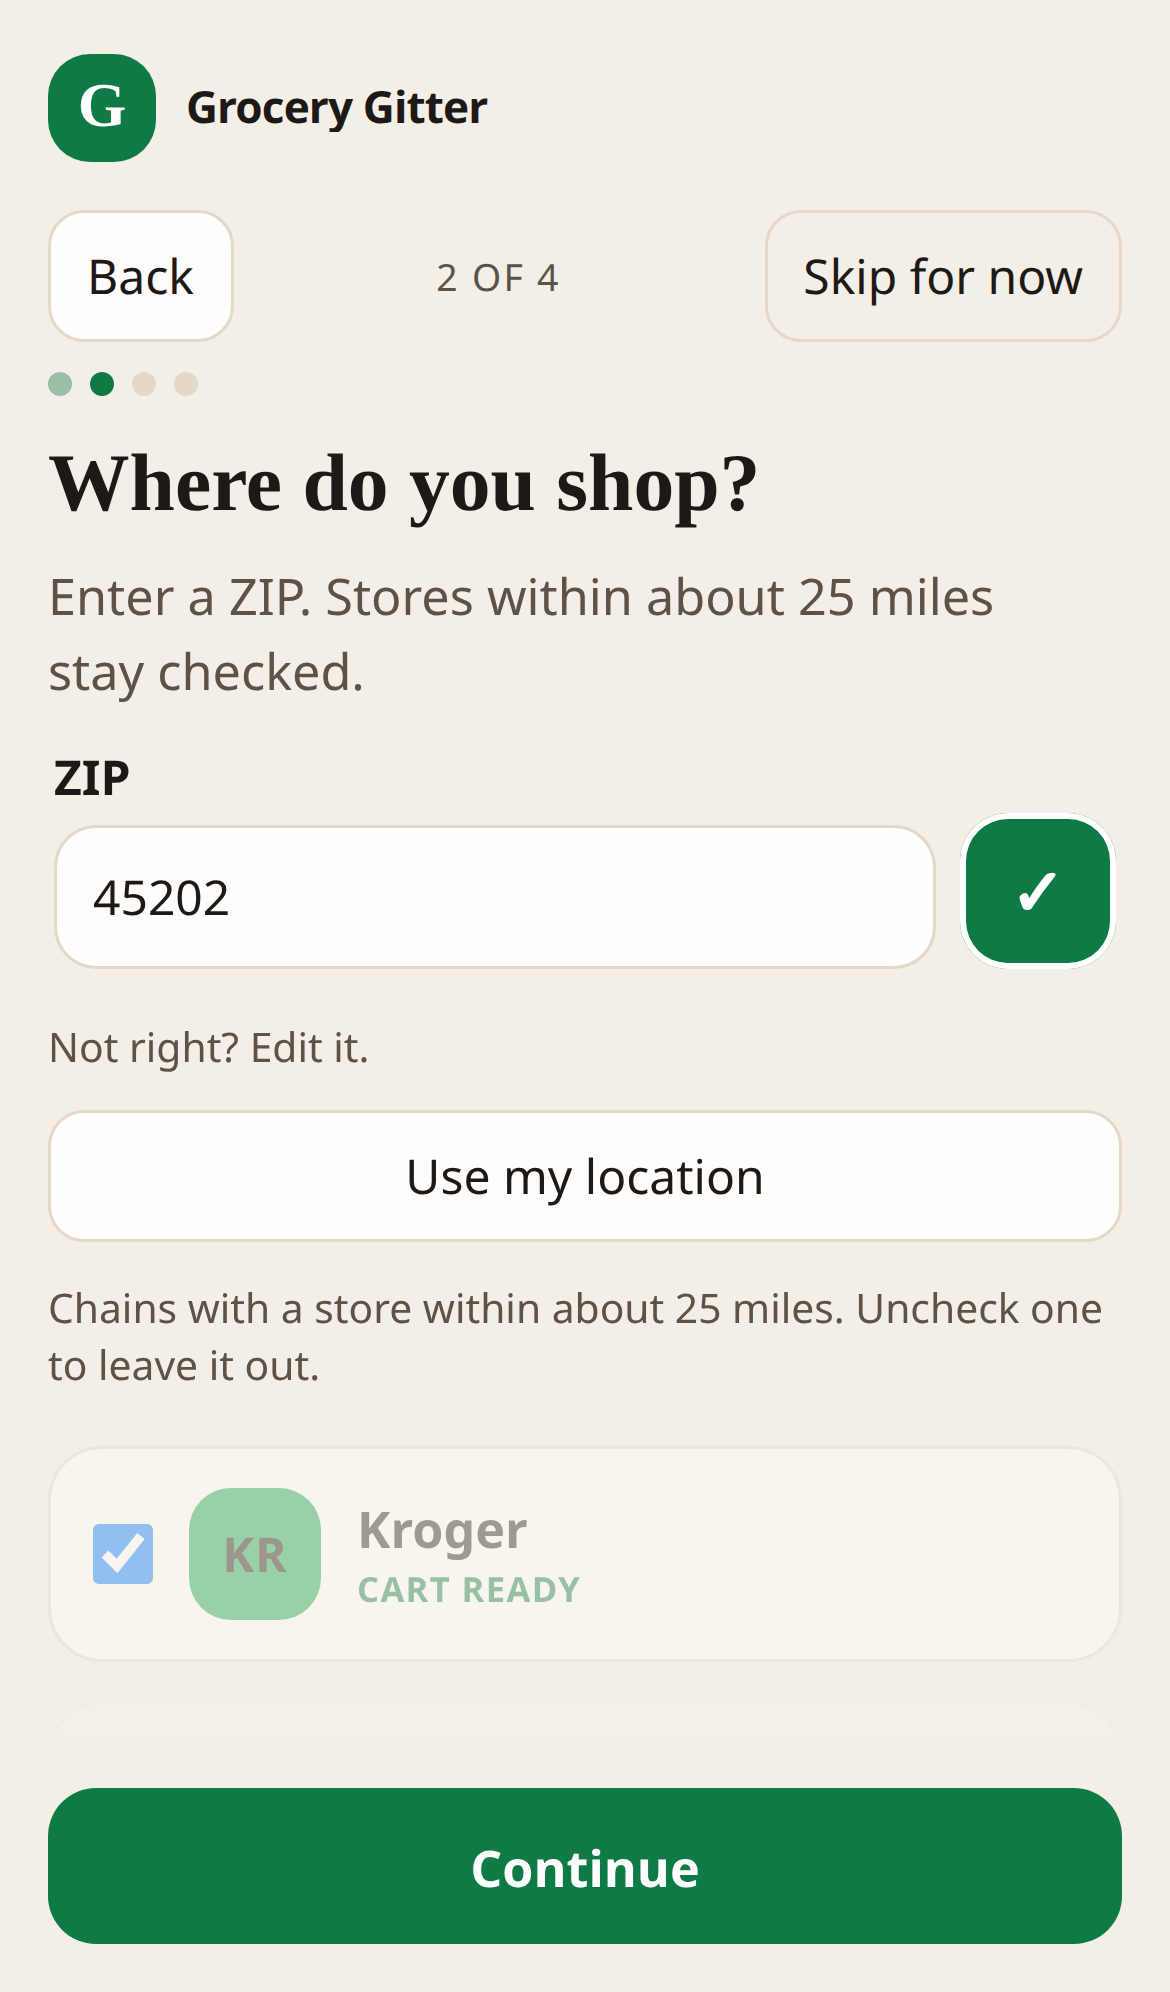
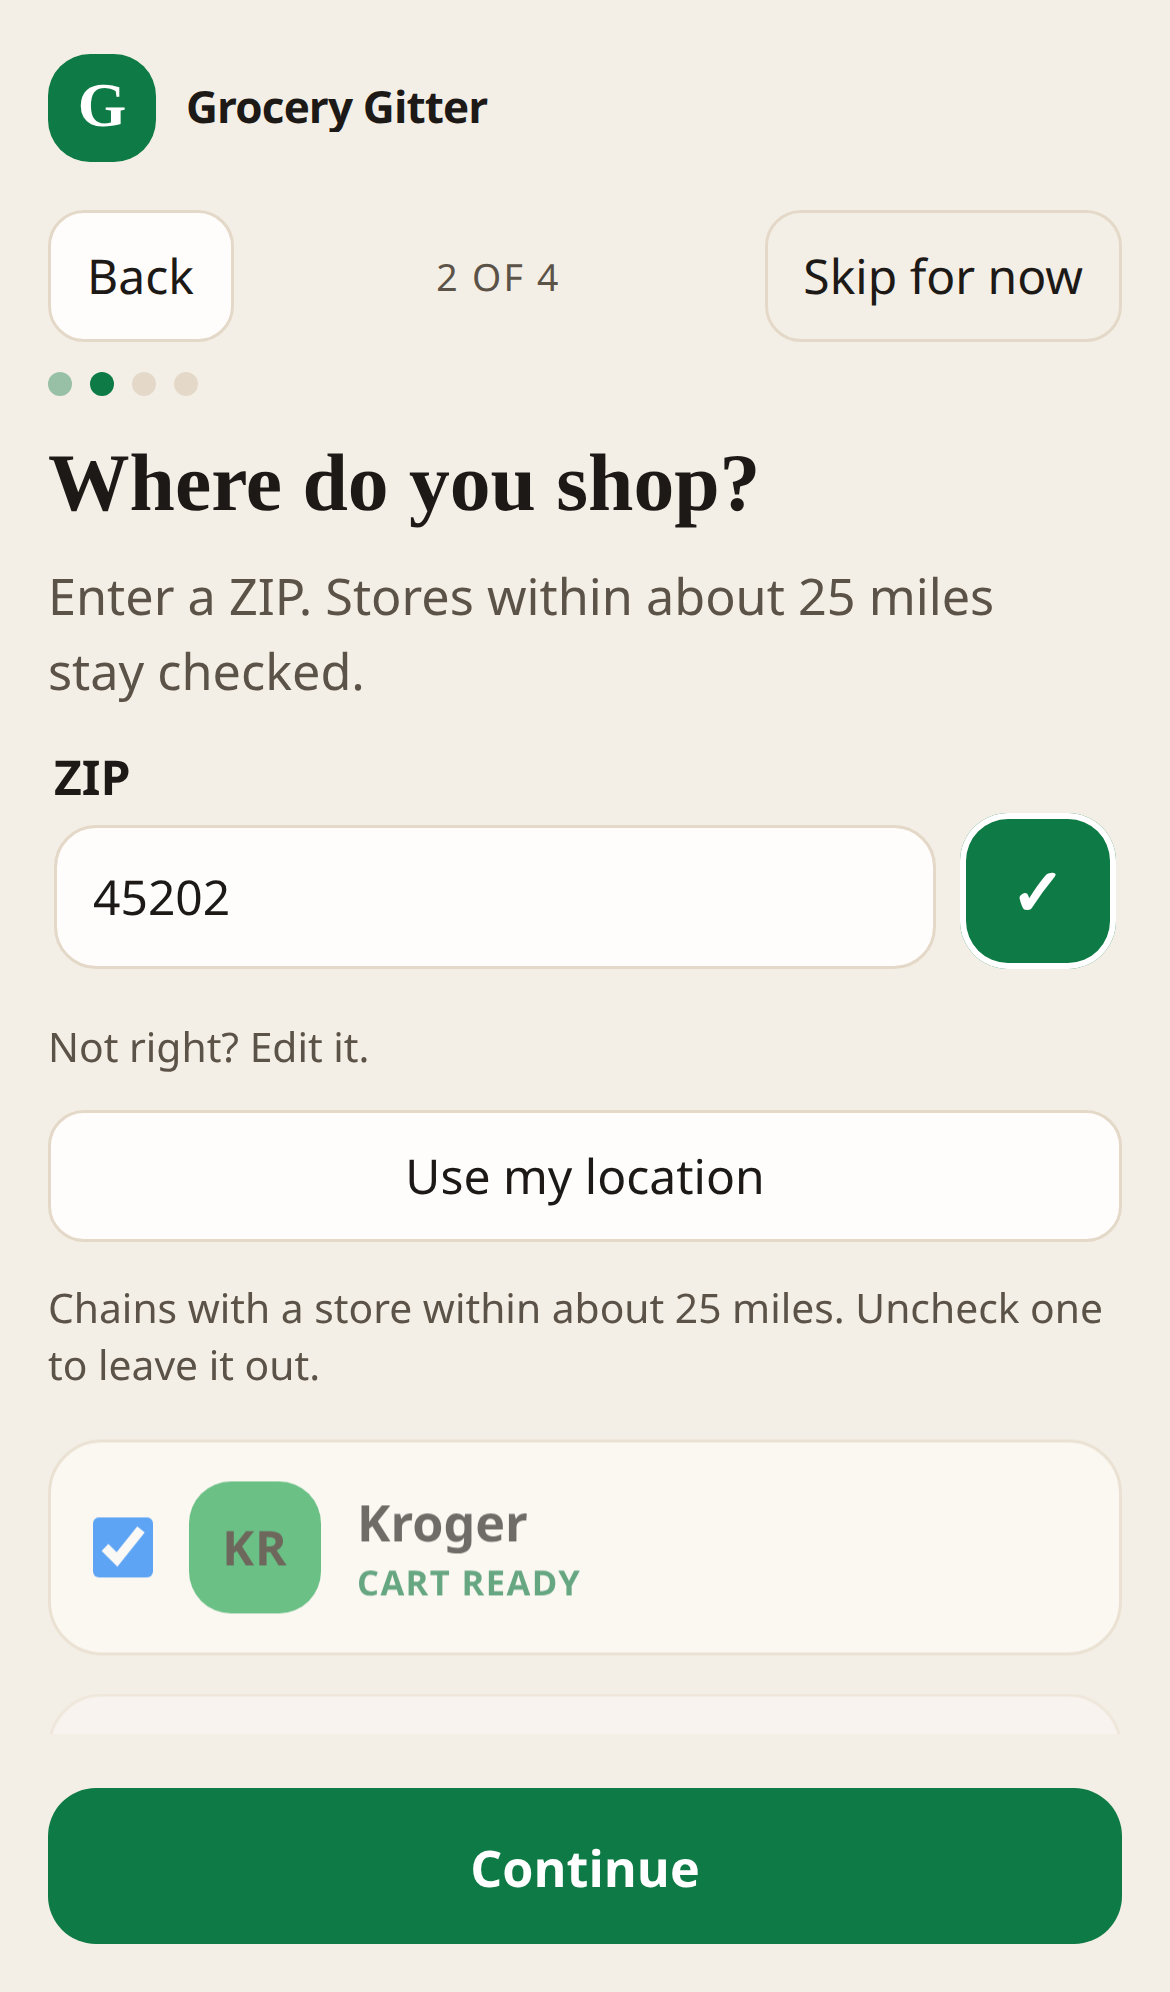
Keep the short-phone guide actions above the dock.
On a 375x667 screen the finish guide scrolls inside the space between the toast and the bottom dock, so Remember, Not this time, and Turn off can be scrolled into a tap. The toast stays in its row. Shell cache is v69.

Changed region(s): [[0.0615, 0.7159, 0.2769, 0.8404], [0.3077, 0.747, 0.4923, 0.8092]]

diff --git a/e2e/phoneProof.spec.ts b/e2e/phoneProof.spec.ts
@@ -586,6 +586,85 @@ test("coming back from a store opens the return sheet", async ({ page }) => {
   expect(result.still).toMatch(/Still shopping/);
 });
 
+async function bringGuideControlIntoReach(page: Page, selector: string) {
+  const moved = await page.evaluate((target) => {
+    const guide = document.getElementById("gitter-guide");
+    const control = document.querySelector(target);
+    const dock = document.getElementById("bottom-dock");
+    if (!(guide instanceof HTMLElement) || !(control instanceof HTMLElement) || !dock) return { ok: false, reason: "missing" };
+    const fits = () => {
+      const box = control.getBoundingClientRect();
+      const frame = guide.getBoundingClientRect();
+      const limit = Math.min(frame.bottom, dock.getBoundingClientRect().top) - 2;
+      const visible = Math.min(box.bottom, limit) - Math.max(box.top, frame.top);
+      return box.height > 12 && box.top >= frame.top - 2 && box.bottom <= limit + 3 && visible >= Math.min(box.height - 4, 24);
+    };
+    if (fits()) return { ok: true, scrolled: 0 };
+    const before = guide.scrollTop;
+    for (let step = 0; step < 8; step += 1) {
+      const box = control.getBoundingClientRect();
+      const frame = guide.getBoundingClientRect();
+      const limit = Math.min(frame.bottom, dock.getBoundingClientRect().top) - 2;
+      if (box.bottom > limit) guide.scrollTop += box.bottom - limit;
+      else if (box.top < frame.top) guide.scrollTop -= frame.top - box.top;
+      if (fits()) return { ok: true, scrolled: Math.round(guide.scrollTop - before) };
+    }
+    const box = control.getBoundingClientRect();
+    const frame = guide.getBoundingClientRect();
+    return {
+      ok: false,
+      scrolled: Math.round(guide.scrollTop - before),
+      scrollHeight: guide.scrollHeight,
+      clientHeight: guide.clientHeight,
+      top: Math.round(box.top),
+      bottom: Math.round(box.bottom),
+      guideTop: Math.round(frame.top),
+      guideBottom: Math.round(frame.bottom),
+      dockTop: Math.round(dock.getBoundingClientRect().top),
+    };
+  }, selector);
+  expect(moved.ok, JSON.stringify(moved)).toBe(true);
+  return moved;
+}
+
+async function guideControlReachable(page: Page, selector: string) {
+  await bringGuideControlIntoReach(page, selector);
+  return page.evaluate((target) => {
+    const control = document.querySelector(target);
+    const dock = document.getElementById("bottom-dock");
+    const toast = document.getElementById("toast");
+    if (!(control instanceof HTMLElement) || !dock || !toast) return { ok: false, reason: "missing" };
+    const box = control.getBoundingClientRect();
+    const dockBox = dock.getBoundingClientRect();
+    const toastBox = toast.getBoundingClientRect();
+    const x = Math.round(box.left + box.width / 2);
+    const y = Math.round(box.top + Math.min(18, box.height / 2));
+    const hit = document.elementFromPoint(x, y);
+    return {
+      ok: Boolean(hit && (hit === control || control.contains(hit))),
+      hitText: (hit?.textContent || "").trim().slice(0, 48),
+      y: Math.round(box.top),
+      bottom: Math.round(box.bottom),
+      dockTop: Math.round(dockBox.top),
+      toast: toast.classList.contains("show") && toastBox.height > 8,
+      dock: dockBox.height > 20 && dockBox.bottom > dockBox.top,
+    };
+  }, selector);
+}
+
+async function finishAnotherTrip(page: Page) {
+  await page.evaluate(() => {
+    localStorage.removeItem("gg-guide");
+  });
+  await page.reload();
+  await page.locator('[data-flow="plan"]').click();
+  await expect(page.getByRole("button", { name: "Complete trip" }).first()).toBeVisible();
+  await page.getByRole("button", { name: "Complete trip" }).first().click();
+  await expect(page.locator("#toast")).toContainText("Saved this trip to Past trips.");
+  await page.locator(".gitter-guide-off").waitFor({ timeout: 3000 });
+  await page.waitForTimeout(350);
+}
+
 for (const size of [
   { width: 390, height: 844 },
   { width: 375, height: 667 },
@@ -636,9 +715,47 @@ test(`the finished-trip toast stays clear at ${size.width}x${size.height}`, asyn
   expect(covered, JSON.stringify(hit)).toEqual([]);
   expect(hit.aisleUnderGuide, JSON.stringify(hit)).toBe(false);
   expect(hit.listsUnderHeader, JSON.stringify(hit)).toBe(false);
-  await page.screenshot({ path: `/opt/cursor/artifacts/complete-toast-${size.width}x${size.height}.png` });
+  const saveReach = await guideControlReachable(page, "[data-guide-action='save-list']");
+  if (size.height === 667) await page.screenshot({ path: "/opt/cursor/artifacts/guide-chips-375x667.png" });
+  const laterReach = await guideControlReachable(page, "[data-guide-action='later']");
+  const offReach = await guideControlReachable(page, ".gitter-guide-off");
+  expect(saveReach.ok, JSON.stringify(saveReach)).toBe(true);
+  expect(laterReach.ok, JSON.stringify(laterReach)).toBe(true);
+  expect(offReach.ok, JSON.stringify(offReach)).toBe(true);
+  expect(saveReach.toast && laterReach.toast && offReach.toast).toBe(true);
+  expect(saveReach.dock && laterReach.dock && offReach.dock).toBe(true);
+  await page.screenshot({ path: `/opt/cursor/artifacts/guide-reach-${size.width}x${size.height}.png` });
+  await page.locator("[data-guide-action='later']").click();
+  await page.waitForTimeout(600);
+  const laterState = await page.evaluate(() => ({
+    moment: document.getElementById("gitter-guide")?.dataset.moment || "",
+    hidden: document.getElementById("gitter-guide")?.hidden,
+    line: document.querySelector(".gitter-guide-line")?.textContent || "",
+    chips: [...document.querySelectorAll(".gitter-guide-chip")].map((button) => (button.textContent || "").trim()),
+  }));
+  expect(laterState.hidden, JSON.stringify(laterState)).toBe(true);
+  await expect(page.locator("#toast")).toContainText("Saved this trip to Past trips.");
+  await expect(page.locator("#bottom-dock")).toBeVisible();
   await page.locator("#toast-action").click();
   await expect(page.locator("#toast")).toContainText("Trip restored.");
   await expect(page.locator("#bar-count")).not.toHaveText("0 items");
+
+  await finishAnotherTrip(page);
+  const saveAgain = await guideControlReachable(page, "[data-guide-action='save-list']");
+  expect(saveAgain.ok, JSON.stringify(saveAgain)).toBe(true);
+  await page.locator("[data-guide-action='save-list']").click();
+  await expect(page.locator("#toast")).toContainText("Saved for the next Shopping list.");
+  await expect.poll(() => page.evaluate(() => (JSON.parse(localStorage.getItem("gg-usuals") || "[]") as Array<{ name?: string }>).map((row) => row.name))).toContain("Whole Milk");
+  await expect(page.locator("#bottom-dock")).toBeVisible();
+
+  await finishAnotherTrip(page);
+  const offAgain = await guideControlReachable(page, ".gitter-guide-off");
+  expect(offAgain.ok, JSON.stringify(offAgain)).toBe(true);
+  await expect(page.locator("#toast")).toContainText("Saved this trip to Past trips.");
+  await page.locator(".gitter-guide-off").click();
+  await expect(page.locator("#gitter-guide")).toBeHidden();
+  await expect.poll(() => page.evaluate(() => JSON.parse(localStorage.getItem("gg-guide") || "{}").enabled)).toBe(false);
+  await expect(page.locator("#toast.show")).toBeVisible();
+  await expect(page.locator("#bottom-dock")).toBeVisible();
 });
 }

diff --git a/public/app.js b/public/app.js
@@ -830,6 +830,8 @@ function releaseToastClearance() {
     guide.style.bottom = "";
     guide.style.top = "";
     guide.style.maxHeight = "";
+    guide.style.minHeight = "";
+    guide.removeAttribute("data-guide-scroll");
   }
   clearToastOffset();
 }
@@ -871,10 +873,10 @@ function placePageToast() {
   toastEl.dataset.toastPlace = "after-aisle";
   const toastBox = toastEl.getBoundingClientRect();
   const nextGuide = guide.getBoundingClientRect();
+  const dockBox = document.getElementById("bottom-dock")?.getBoundingClientRect();
   const overlap = Math.ceil(toastBox.bottom + 4 - nextGuide.top);
   if (overlap > 0) {
-    const dock = document.querySelector(".step-bar")?.getBoundingClientRect();
-    const room = dock ? Math.floor(dock.top - nextGuide.bottom - 4) : overlap;
+    const room = dockBox ? Math.floor(dockBox.top - nextGuide.bottom - 8) : overlap;
     const computed = parseFloat(getComputedStyle(guide).bottom) || 0;
     const shift = Math.min(overlap, Math.max(0, room));
     if (shift > 0) guide.style.bottom = `${Math.max(0, computed - shift)}px`;
@@ -885,10 +887,12 @@ function placePageToast() {
   const blockBottom = Math.max(placed.bottom, aisle?.bottom || 0);
   const stillCovered = Math.ceil(blockBottom + 4 - guideNow.top);
   if (stillCovered > 1) {
-    const dockTop = document.querySelector(".step-bar")?.getBoundingClientRect().top ?? window.innerHeight;
+    const dockTop = document.getElementById("bottom-dock")?.getBoundingClientRect().top ?? window.innerHeight;
     guide.style.top = `${Math.ceil(blockBottom + 4)}px`;
-    guide.style.bottom = `${Math.max(8, Math.round(window.innerHeight - dockTop + 4))}px`;
+    guide.style.bottom = `${Math.max(8, Math.round(window.innerHeight - dockTop + 8))}px`;
     guide.style.maxHeight = "none";
+    guide.style.minHeight = "0";
+    guide.dataset.guideScroll = "1";
   }
 }
 

diff --git a/public/styles.css b/public/styles.css
@@ -1082,6 +1082,20 @@ body[data-toast-clear="1"] #gitter-guide {
   padding-top: 8px;
   padding-bottom: 8px;
 }
+#gitter-guide[data-guide-scroll="1"] {
+  min-height: 0;
+  overflow-x: hidden;
+  overflow-y: auto;
+  align-items: start;
+  align-content: start;
+  pointer-events: auto;
+  overscroll-behavior: contain;
+  -webkit-overflow-scrolling: touch;
+}
+#gitter-guide[data-guide-scroll="1"] .gitter-guide-copy {
+  min-height: 0;
+  min-width: 0;
+}
 .toast button, #toast-action {
   background: #fffdfb; color: #1c1917; border: 0; border-radius: 999px;
   min-height: 36px; padding: 0 14px; font-weight: 750;

diff --git a/src/shopper/phoneRetest10Add.test.ts b/src/shopper/phoneRetest10Add.test.ts
@@ -168,7 +168,7 @@ describe("tenth phone test — Add tab", () => {
     assert.match(app, /pastTripsEmptyHtml/);
     assert.match(html, /addTabPolish\.css/);
     const sw = readFileSync(new URL("../../public/sw.js", import.meta.url), "utf8");
-    assert.match(sw, /grocery-gitter-shell-v68/);
+    assert.match(sw, /grocery-gitter-shell-v69/);
     const header = html.slice(html.indexOf("<header"), html.indexOf('id="app-drawer"'));
     assert.match(header, /id="menu-open"/);
     assert.match(header, /id="brand-home"/);

diff --git a/src/shopper/phoneRetest11.test.ts b/src/shopper/phoneRetest11.test.ts
@@ -28,8 +28,8 @@ const sw = readFileSync(new URL("../../public/sw.js", import.meta.url), "utf8");
 const importer = readFileSync(new URL("../../public/shopper/import.js", import.meta.url), "utf8");
 
 describe("eleventh phone test", () => {
-  it("bumps the shell cache to v68", () => {
-    assert.match(sw, /grocery-gitter-shell-v68/);
+  it("bumps the shell cache to v69", () => {
+    assert.match(sw, /grocery-gitter-shell-v69/);
   });
 
   it("keeps the Grocery Gitter wordmark in the header flow", () => {

diff --git a/src/shopper/phoneRetest9.test.ts b/src/shopper/phoneRetest9.test.ts
@@ -24,8 +24,8 @@ const sw = readFileSync(new URL("../../public/sw.js", import.meta.url), "utf8");
 const coupons = readFileSync(new URL("../../public/shopper/coupons.js", import.meta.url), "utf8");
 
 describe("ninth phone test", () => {
-  it("bumps the shell cache to v68", () => {
-    assert.match(sw, /grocery-gitter-shell-v68/);
+  it("bumps the shell cache to v69", () => {
+    assert.match(sw, /grocery-gitter-shell-v69/);
   });
 
   it("suggests nearby ZIPs and does not trust one census code", () => {

diff --git a/src/shopper/phoneRetest12Review.test.ts b/src/shopper/phoneRetest12Review.test.ts
@@ -73,9 +73,9 @@ function streamed(total: number) {
 }
 
 describe("twelfth phone test, Review and In-store", () => {
-  it("bumps the shell cache to v68", () => {
-    assert.equal(SHELL_CACHE, "v68");
-    assert.match(sw, /grocery-gitter-shell-v68/);
+  it("bumps the shell cache to v69", () => {
+    assert.equal(SHELL_CACHE, "v69");
+    assert.match(sw, /grocery-gitter-shell-v69/);
   });
 
   it("ends a cold review with a retry instead of an endless checking shell", () => {

diff --git a/src/shopper/phoneRetest7.test.ts b/src/shopper/phoneRetest7.test.ts
@@ -13,7 +13,7 @@ const kroger = readFileSync(new URL("../../public/shopper/krogerReturn.js", impo
 
 describe("seventh phone retest regressions", () => {
   it("bumps the shell cache to v30 and keeps the Walmart cart button", () => {
-    assert.match(sw, /grocery-gitter-shell-v68/);
+    assert.match(sw, /grocery-gitter-shell-v69/);
     assert.match(app, /data-walmart-cart/);
     assert.match(app, /Open in Walmart cart/);
     assert.match(app, /startsWith\("custom:"\)/);

diff --git a/src/shopper/phoneRetest10Onboarding.test.ts b/src/shopper/phoneRetest10Onboarding.test.ts
@@ -23,8 +23,8 @@ const sw = readFileSync(new URL("../../public/sw.js", import.meta.url), "utf8");
 const CINCINNATI = { lat: 39.0916, lng: -84.1437 };
 
 describe("tenth phone test onboarding", () => {
-  it("bumps the shell cache to v68", () => {
-    assert.match(sw, /grocery-gitter-shell-v68/);
+  it("bumps the shell cache to v69", () => {
+    assert.match(sw, /grocery-gitter-shell-v69/);
   });
 
   it("starts the ZIP field empty unless a saved ZIP exists", () => {

diff --git a/src/shopper/shelfScan.test.ts b/src/shopper/shelfScan.test.ts
@@ -196,7 +196,7 @@ describe("shelf scan list rules", () => {
     assert.match(html, /Fridge and pantry scan needs photo reading/);
     assert.match(app, /mountShelfScan/);
     assert.match(app, /addFromPreferences/);
-    assert.match(sw, /grocery-gitter-shell-v68/);
+    assert.match(sw, /grocery-gitter-shell-v69/);
     assert.match(client, /capture="environment"/);
     assert.match(client, /accept="image\/\*" multiple/);
     assert.match(client, /imageBlobs/);

diff --git a/src/shopper/chromeIos.test.ts b/src/shopper/chromeIos.test.ts
@@ -27,7 +27,7 @@ const DESKTOP = "Mozilla/5.0 (Macintosh; Intel Mac OS X 10_15_7) AppleWebKit/537
 
 describe("Chrome on iPhone", () => {
   it("recognizes CriOS and ignores a home-screen install", () => {
-    assert.match(sw, /grocery-gitter-shell-v68/);
+    assert.match(sw, /grocery-gitter-shell-v69/);
     assert.match(app, /openStoreHandoff/);
     assert.match(app, /applySharedHandoff/);
     assert.match(app, /handoffBridgePath/);

diff --git a/src/shopper/importUi.test.ts b/src/shopper/importUi.test.ts
@@ -42,7 +42,7 @@ describe("import entry on the phone dock", () => {
     const accept = parsed.share_target?.params?.files?.[0]?.accept || [];
     assert.ok(accept.includes("image/*"));
     assert.ok(accept.includes("audio/*"));
-    assert.match(sw, /grocery-gitter-shell-v68/);
+    assert.match(sw, /grocery-gitter-shell-v69/);
     assert.match(sw, /pathname === "\/import-share"/);
     assert.match(sw, /gg-import-share/);
   });
